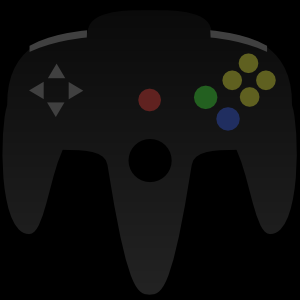
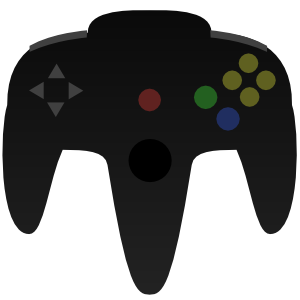
Add background color settings.

diff --git a/src/main.cpp b/src/main.cpp
@@ -50,7 +50,13 @@ int main()
   }
   SDL_SetHint(SDL_HINT_JOYSTICK_ALLOW_BACKGROUND_EVENTS, "1");
   SDL_SetHint(SDL_HINT_RENDER_SCALE_QUALITY, "1");
-  SDL_SetRenderDrawColor(renderer, 0x00, 0x00, 0x00, 0xFF);
+  int red = 0;
+  int green = 0;
+  int blue = 0;
+  conf.get_int("red", red);
+  conf.get_int("green", green);
+  conf.get_int("blue", blue);
+  SDL_SetRenderDrawColor(renderer, red, green, blue, 0xFF);
 
   Controller *controller
     = new Controller(renderer, conf);
@@ -96,6 +102,13 @@ int main()
           conf.get_int("fps", fps);
           if (fps <= 0)
             fps = 1;
+          red = 0;
+          green = 0;
+          blue = 0;
+          conf.get_int("red", red);
+          conf.get_int("green", green);
+          conf.get_int("blue", blue);
+          SDL_SetRenderDrawColor(renderer, red, green, blue, 0xFF);
           delete controller;
           controller = new Controller(renderer, conf);
           break;
